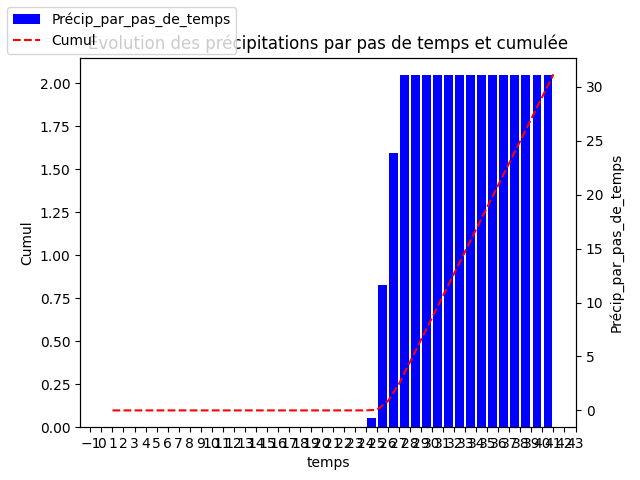
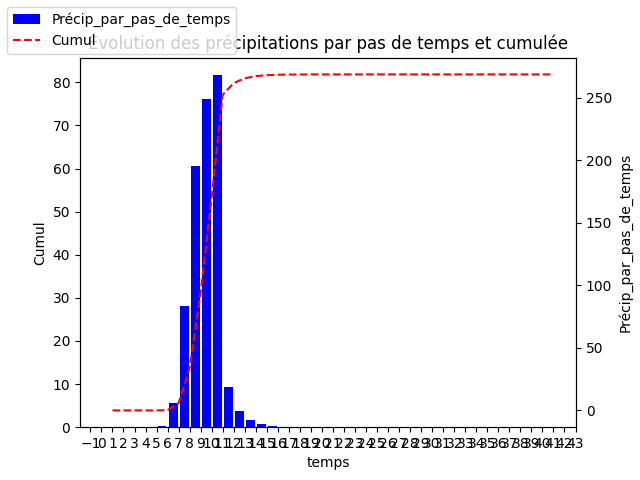
modification de distribution pour utiliser la version améliorée

diff --git a/Scripts/ditribution.py b/Scripts/ditribution.py
@@ -19,7 +19,7 @@ class distribution:
                     mass_form = np.array(profil[2]).sum(axis=1)
                     Affichage.Affichage_Concentration(concentration_formate, "concentration", model)
                     Affichage.Affichage_Concentration(mass_form, "masse", model)
-                    Affichage.Affichage_Precipitation(profil[1])
+                    Affichage.Affichage_Precipitation(profil[1], model)
             else:
                 if deformable == None:
                     model_config = Model_bl_sf(number_stitches,number_bin,number_particules,time_step,speed_max,esp,CFL)
